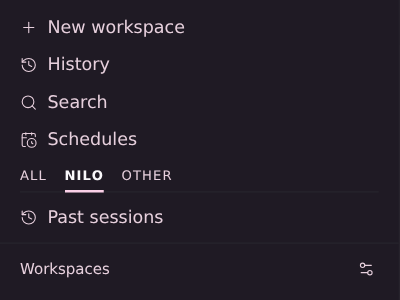
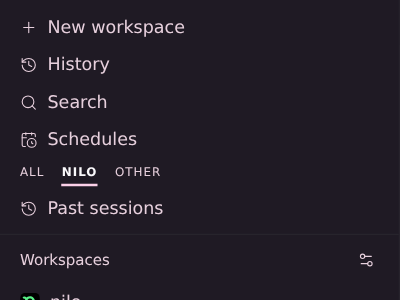
filter-presets: G style only (no hairline), smaller labels

diff --git a/paseo-plugins/filter-presets/client/switcher.tsx b/paseo-plugins/filter-presets/client/switcher.tsx
@@ -54,17 +54,16 @@ export function createSwitcher(client: PluginClientContext, filter: SidebarFilte
     if (!ready) return <Text style={{ color: theme.colors.foregroundMuted, fontSize: 11, padding: 6 }}>
       {projects.isError || settings.status === "error" || settings.status === "invalid" ? "Filter presets unavailable" : "Loading filter presets…"}
     </Text>;
-    // Tab strip: small-caps labels on a hairline; the active one sits on a 2px accent bar.
-    return <View style={{ flexDirection: "row", flexWrap: "wrap", columnGap: 14, marginHorizontal: 16, marginTop: 2, marginBottom: 4,
-      borderBottomWidth: 1, borderBottomColor: theme.colors.border }}>
+    // Small-caps labels; the active one sits on a 2px accent bar (no hairline: Paseo already draws dividers here).
+    return <View style={{ flexDirection: "row", flexWrap: "wrap", columnGap: 14, marginHorizontal: 16, marginTop: 2, marginBottom: 2 }}>
       {choices.map(({ id, name }) => {
         const on = active === id;
         return <Pressable key={id} testID={`filter-preset-${id}`} accessibilityRole="button"
           accessibilityLabel={`Filter preset: ${name}`} accessibilityState={{ selected: on }} onPress={() => select(id)}
           hitSlop={{ top: 6, bottom: 2, left: 4, right: 4 }}
-          style={{ paddingTop: 4, paddingBottom: 4, marginBottom: -1, borderBottomWidth: 2, borderBottomColor: on ? theme.colors.accent : "transparent" }}>
+          style={{ paddingTop: 3, paddingBottom: 2, borderBottomWidth: 2, borderBottomColor: on ? theme.colors.accent : "transparent" }}>
           {(state) => <Text style={{
-            fontSize: 10.5, lineHeight: 14, letterSpacing: 0.9, textTransform: "uppercase", fontWeight: on ? "600" : "500",
+            fontSize: 9.5, lineHeight: 12, letterSpacing: 0.8, textTransform: "uppercase", fontWeight: on ? "600" : "500",
             // react-native-web adds `hovered` to the pressable state; native never sets it.
             color: on || ("hovered" in state && state.hovered === true) ? theme.colors.foreground : theme.colors.foregroundMuted,
           }}>{name}</Text>}
